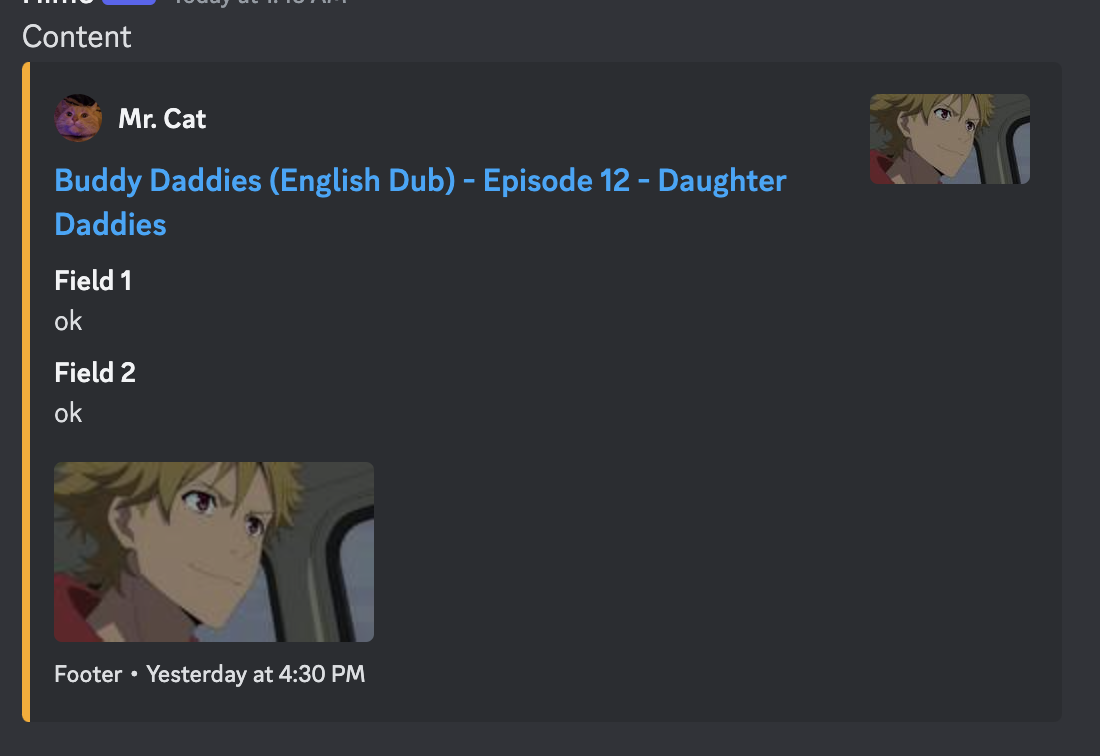
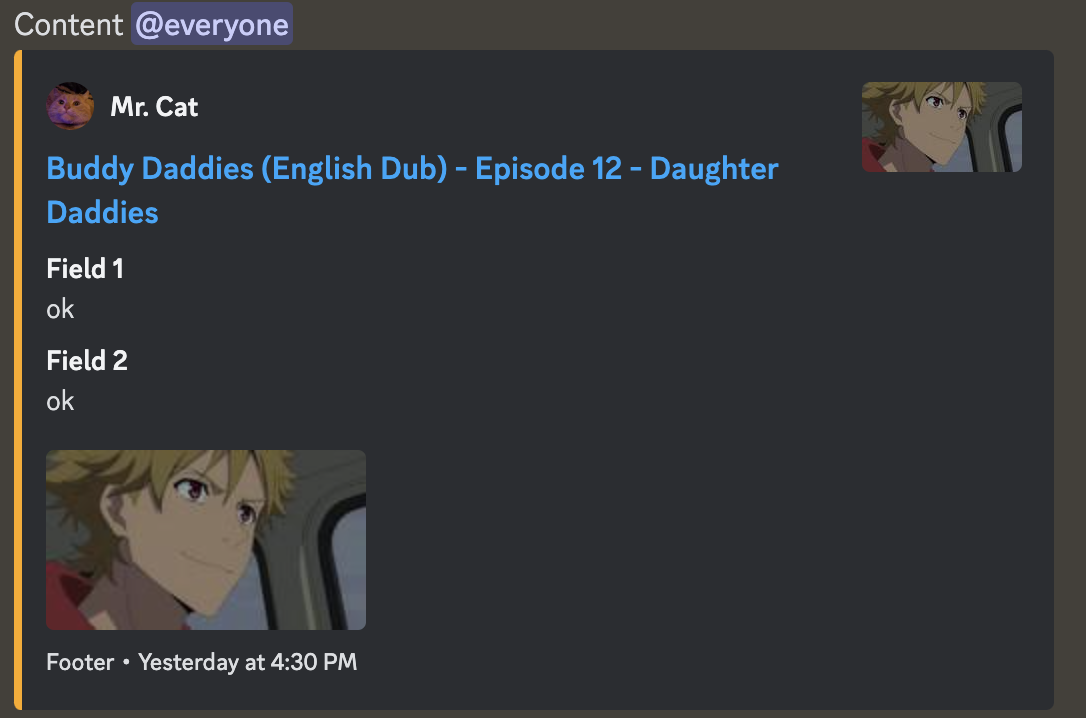
New methods

Changed region(s): [[0.0, 0.0, 0.7293, 0.9805], [0.7901, 0.0919, 0.942, 0.2451]]

diff --git a/lib/services/MessageBuilder.js b/lib/services/MessageBuilder.js
@@ -1,4 +1,15 @@
 "use strict";
+var __assign = (this && this.__assign) || function () {
+    __assign = Object.assign || function(t) {
+        for (var s, i = 1, n = arguments.length; i < n; i++) {
+            s = arguments[i];
+            for (var p in s) if (Object.prototype.hasOwnProperty.call(s, p))
+                t[p] = s[p];
+        }
+        return t;
+    };
+    return __assign.apply(this, arguments);
+};
 Object.defineProperty(exports, "__esModule", { value: true });
 var regexp_1 = require("../helpers/regexp");
 var errors_1 = require("../helpers/errors");
@@ -33,6 +44,36 @@ var MessageBuilder = /** @class */ (function () {
         if (this.message.embeds.length === 10)
             throw new Error("embeds ".concat(errors_1.default.limit10));
         this.message.embeds.push(embed);
+        return this;
+    };
+    MessageBuilder.prototype.setTTS = function (content) {
+        if (!content)
+            return this;
+        this.message.tts = { content: content, tts: true };
+        return this;
+    };
+    MessageBuilder.prototype.setAllowedMentionsParse = function (parse) {
+        if (!parse)
+            return this;
+        if (!this.message.allowed_mentions)
+            this.message.allowed_mentions = {};
+        this.message.allowed_mentions = __assign(__assign({}, this.message.allowed_mentions), { parse: parse });
+        return this;
+    };
+    MessageBuilder.prototype.setAllowedMentionsUsers = function (users) {
+        if (!users)
+            return this;
+        if (!this.message.allowed_mentions)
+            this.message.allowed_mentions = {};
+        this.message.allowed_mentions = __assign(__assign({}, this.message.allowed_mentions), { users: users });
+        return this;
+    };
+    MessageBuilder.prototype.setAllowedMentionsRoles = function (roles) {
+        if (!roles)
+            return this;
+        if (!this.message.allowed_mentions)
+            this.message.allowed_mentions = {};
+        this.message.allowed_mentions = __assign(__assign({}, this.message.allowed_mentions), { roles: roles });
         return this;
     };
     MessageBuilder.prototype.getJson = function () {

diff --git a/src/services/MessageBuilder.ts b/src/services/MessageBuilder.ts
@@ -1,4 +1,4 @@
-import { DiscordMessage, Embed } from '../types/discord';
+import { DiscordMessage, Embed, Parse } from '../types/discord';
 import { rgxURL } from '../helpers/regexp';
 import e from '../helpers/errors';
 
@@ -25,6 +25,42 @@ export default class MessageBuilder {
     if (!this.message.embeds) this.message.embeds = [];
     if (this.message.embeds.length === 10) throw new Error(`embeds ${e.limit10}`);
     this.message.embeds.push(embed);
+    return this;
+  }
+
+  setTTS(content?: string) {
+    if (!content) return this;
+    this.message.tts = { content, tts: true };
+    return this;
+  }
+
+  setAllowedMentionsParse(parse?: Parse[]) {
+    if (!parse) return this;
+    if (!this.message.allowed_mentions) this.message.allowed_mentions = {};
+    this.message.allowed_mentions = {
+      ...this.message.allowed_mentions,
+      parse,
+    };
+    return this;
+  }
+
+  setAllowedMentionsUsers(users?: string[]) {
+    if (!users) return this;
+    if (!this.message.allowed_mentions) this.message.allowed_mentions = {};
+    this.message.allowed_mentions = {
+      ...this.message.allowed_mentions,
+      users,
+    };
+    return this;
+  }
+
+  setAllowedMentionsRoles(roles?: string[]) {
+    if (!roles) return this;
+    if (!this.message.allowed_mentions) this.message.allowed_mentions = {};
+    this.message.allowed_mentions = {
+      ...this.message.allowed_mentions,
+      roles,
+    };
     return this;
   }
 

diff --git a/lib/index.js b/lib/index.js
@@ -1,9 +1,11 @@
 "use strict";
 Object.defineProperty(exports, "__esModule", { value: true });
-exports.EmbedBuilder = exports.MessageBuilder = exports.HookBuilder = void 0;
+exports.Parse = exports.EmbedBuilder = exports.MessageBuilder = exports.HookBuilder = void 0;
 var HookBuilder_1 = require("./services/HookBuilder");
 exports.HookBuilder = HookBuilder_1.default;
 var MessageBuilder_1 = require("./services/MessageBuilder");
 exports.MessageBuilder = MessageBuilder_1.default;
 var EmbedBuilder_1 = require("./services/EmbedBuilder");
 exports.EmbedBuilder = EmbedBuilder_1.default;
+var discord_1 = require("./types/discord");
+Object.defineProperty(exports, "Parse", { enumerable: true, get: function () { return discord_1.Parse; } });

diff --git a/lib/index.d.ts b/lib/index.d.ts
@@ -1,5 +1,5 @@
 import HookBuilder from './services/HookBuilder';
 import MessageBuilder from './services/MessageBuilder';
 import EmbedBuilder from './services/EmbedBuilder';
-import { DiscordMessage, Embed, Author, Field, Footer, Image } from './types/discord';
-export { HookBuilder, MessageBuilder, EmbedBuilder, DiscordMessage, Embed, Author, Field, Footer, Image, };
+import { DiscordMessage, Embed, Author, Field, Footer, Image, TTS, Parse, AllowedMentions } from './types/discord';
+export { HookBuilder, MessageBuilder, EmbedBuilder, DiscordMessage, Embed, Author, Field, Footer, Image, TTS, Parse, AllowedMentions, };

diff --git a/lib/types/discord.d.ts b/lib/types/discord.d.ts
@@ -2,6 +2,8 @@ export interface DiscordMessage {
     content?: string;
     embeds?: Embed[];
     attachments?: string[];
+    tts?: TTS;
+    allowed_mentions?: AllowedMentions;
 }
 export interface Embed {
     title?: string;
@@ -32,4 +34,18 @@ export interface Footer {
 }
 export interface Image {
     url: string;
+}
+export interface TTS {
+    content: string;
+    tts: boolean;
+}
+export declare enum Parse {
+    everyone = "everyone",
+    users = "users",
+    roles = "roles"
+}
+export interface AllowedMentions {
+    parse?: Parse[];
+    users?: string[];
+    roles?: string[];
 }

diff --git a/src/types/discord.ts b/src/types/discord.ts
@@ -4,6 +4,8 @@ export interface DiscordMessage {
   content?: string; // Max 2000
   embeds?: Embed[]; // Max 10
   attachments?: string[]; // Max 10
+  tts?: TTS;
+  allowed_mentions?: AllowedMentions;
 }
 
 export interface Embed {
@@ -39,4 +41,21 @@ export interface Footer {
 
 export interface Image {
   url: string;
+}
+
+export interface TTS {
+  content: string;
+  tts: boolean;
+}
+
+export enum Parse {
+  everyone = 'everyone',
+  users = 'users',
+  roles = 'roles',
+}
+
+export interface AllowedMentions {
+  parse?: Parse[];
+  users?: string[];
+  roles?: string[];
 }

diff --git a/lib/services/MessageBuilder.d.ts b/lib/services/MessageBuilder.d.ts
@@ -1,9 +1,13 @@
-import { DiscordMessage, Embed } from '../types/discord';
+import { DiscordMessage, Embed, Parse } from '../types/discord';
 export default class MessageBuilder {
     private message;
     setContent(content?: string): this;
     addAttachment(attachment?: string): this;
     addEmbed(embed?: Embed): this;
+    setTTS(content?: string): this;
+    setAllowedMentionsParse(parse?: Parse[]): this;
+    setAllowedMentionsUsers(users?: string[]): this;
+    setAllowedMentionsRoles(roles?: string[]): this;
     getJson(): string;
     build(): DiscordMessage;
 }

diff --git a/tests/DiscordHookBuilder.test.ts b/tests/DiscordHookBuilder.test.ts
@@ -2,6 +2,7 @@ import {
   HookBuilder,
   MessageBuilder,
   EmbedBuilder,
+  Parse,
 } from '../src/index';
 
 test('My Discord HookBuilder', async () => {
@@ -26,7 +27,8 @@ test('My Discord HookBuilder', async () => {
   console.log(embed.getJson());
 
   const message = new MessageBuilder()
-    .setContent("Content")
+    .setContent("Content @everyone")
+    .setAllowedMentionsParse([Parse.everyone])
     .addEmbed(embed.build());
 
   console.log(message.getJson());

diff --git a/src/index.ts b/src/index.ts
@@ -2,7 +2,8 @@ import HookBuilder from './services/HookBuilder';
 import MessageBuilder from './services/MessageBuilder';
 import EmbedBuilder from './services/EmbedBuilder';
 import {
-  DiscordMessage, Embed, Author, Field, Footer, Image,
+  DiscordMessage, Embed, Author, Field, Footer,
+  Image, TTS, Parse, AllowedMentions,
 } from './types/discord';
 
 export {
@@ -17,4 +18,7 @@ export {
   Field,
   Footer,
   Image,
+  TTS,
+  Parse,
+  AllowedMentions,
 };

diff --git a/lib/types/discord.js b/lib/types/discord.js
@@ -1,3 +1,10 @@
 "use strict";
 // Generated by https://quicktype.io
 Object.defineProperty(exports, "__esModule", { value: true });
+exports.Parse = void 0;
+var Parse;
+(function (Parse) {
+    Parse["everyone"] = "everyone";
+    Parse["users"] = "users";
+    Parse["roles"] = "roles";
+})(Parse = exports.Parse || (exports.Parse = {}));

diff --git a/README.md b/README.md
@@ -3,10 +3,6 @@
 #### Structure
 - [Discord Webhooks Guide](https://birdie0.github.io/discord-webhooks-guide/discord_webhook.html)
 
-#### Unsupported
-- tss
-- allowed_mentions
-
 #### Install
 ```
 yarn add @arskang/discord-webhook
@@ -17,7 +13,9 @@ yarn add @arskang/discord-webhook
 - DiscordMessage
   - content?: string // Max 2000
   - embeds?: Embed[] // Max 10
-  - attachments?: string[] // Max 10 
+  - attachments?: string[] // Max 10
+  - tts?: TTS
+  - allowed_mentions?: AllowedMentions
 - Embed
   - title?: string // Max 256
   - description?: string // Max 4096
@@ -42,6 +40,14 @@ yarn add @arskang/discord-webhook
   - timestamp?: string // ISO string
 - Image
   - url: string
+- TTS
+  - content: string
+  - tts: boolean
+- AllowedMentions
+  - parse?: Parse[] // everyone, users o roles
+  - users?: string[]
+  - roles?: string[]
+- Parse (enum): everyone, users o roles
 
 #### EmbedBuilder
 
@@ -123,6 +129,10 @@ console.log(embed.getJson());
 - setContent(content: string = ''): return this
 - addAttachment(attachment?: string): return this
 - addEmbed(embed?: Embed): return this
+- setTTS(content?: string): return this
+- setAllowedMentionsParse(parse?: Parse[]): return this
+- setAllowedMentionsUsers(users?: string[]): return this
+- setAllowedMentionsRoles(roles?: string[]): return this
 - getJson(): return json string
 - build(): return **DiscordMessage**
 
@@ -132,13 +142,15 @@ console.log(embed.getJson());
 const { MessageBuilder } = require("@arskang/discord-webhook");
 
 const message = new MessageBuilder()
-  .setContent("Content")
+  .setContent("Content @everyone")
+  .setAllowedMentionsParse([Parse.everyone])
   .addEmbed(embed.build());
 
 // Get json string
 console.log(message.getJson());
 // {
-//   "content": "Content",
+//   "content": "Content @everyone",
+//   "allowed_mentions": { "parse": ["everyone"] },
 //   "embeds": [
 //     {
 //       "title": "Buddy Daddies (English Dub) - Episode 12 - Daughter Daddies",
@@ -191,7 +203,6 @@ try {
   const hook = new HookBuilder("DISCORD_WEBHOOK_URL");
 
   const allResponse = await hook
-    .addMessage(message.build())
     .addMessage(message.build())
     .send();
 
